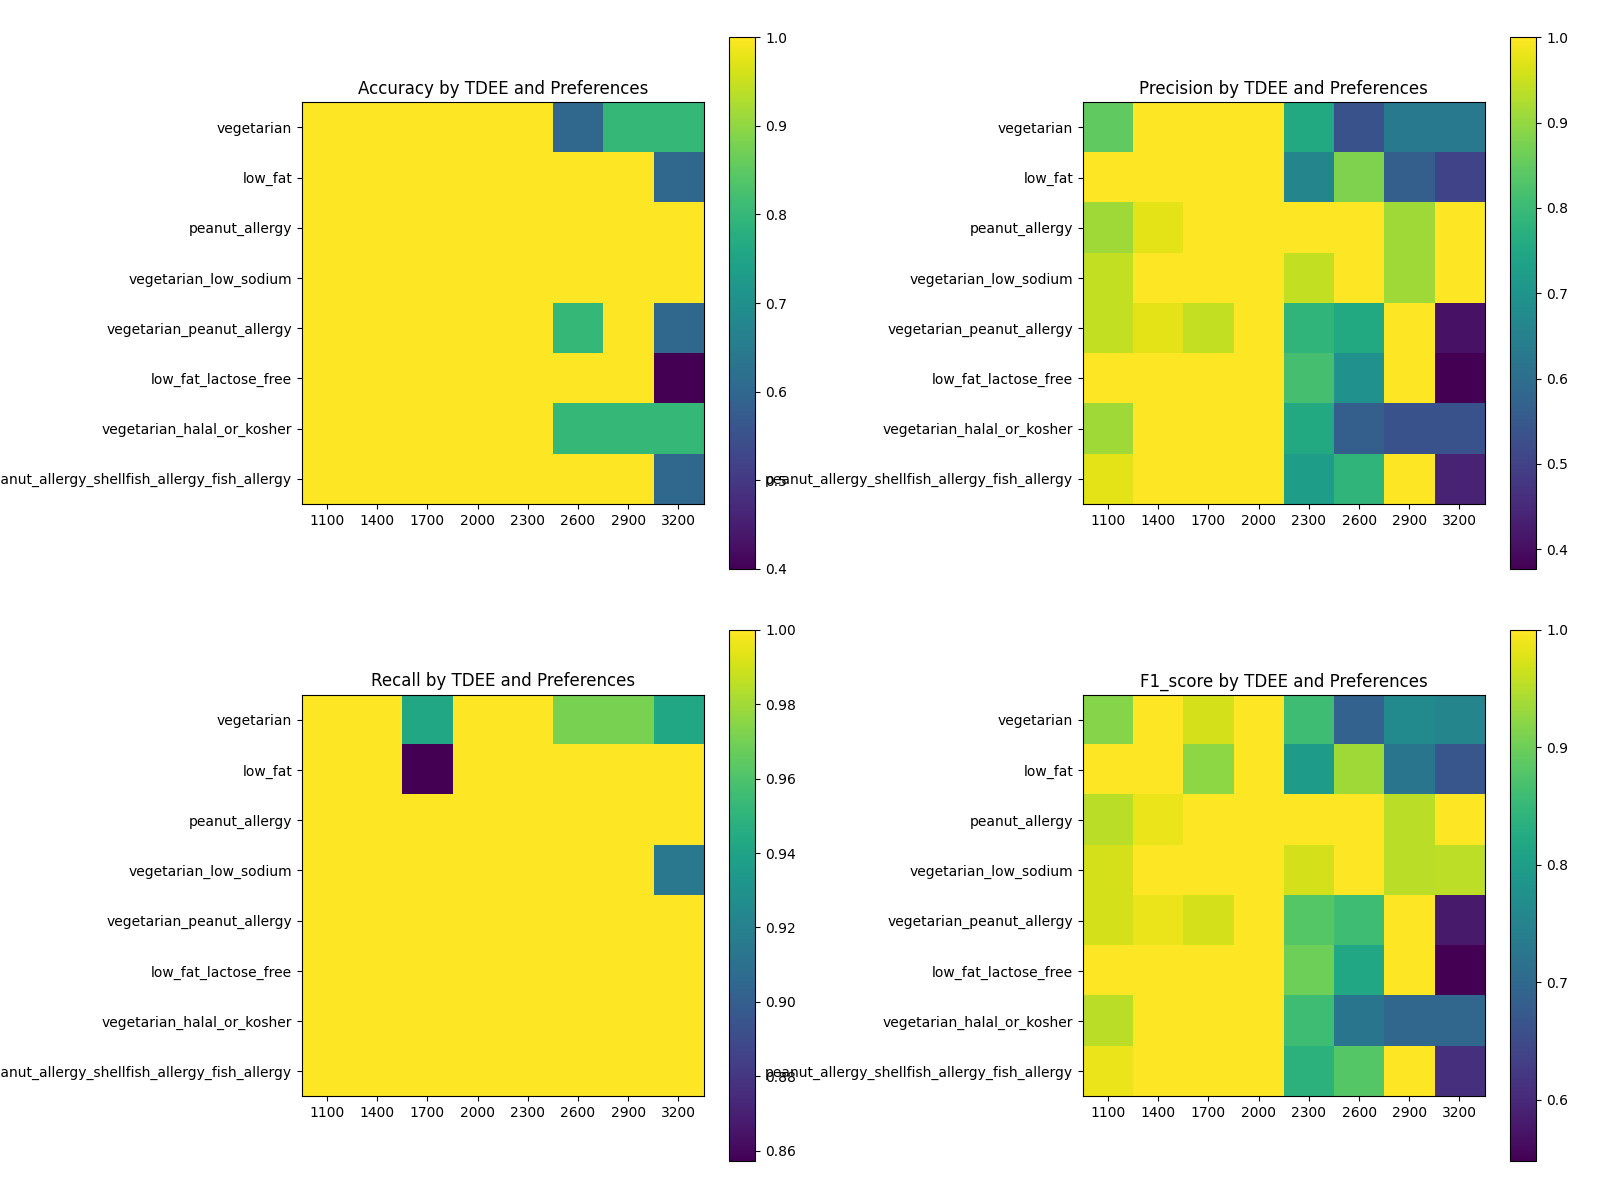
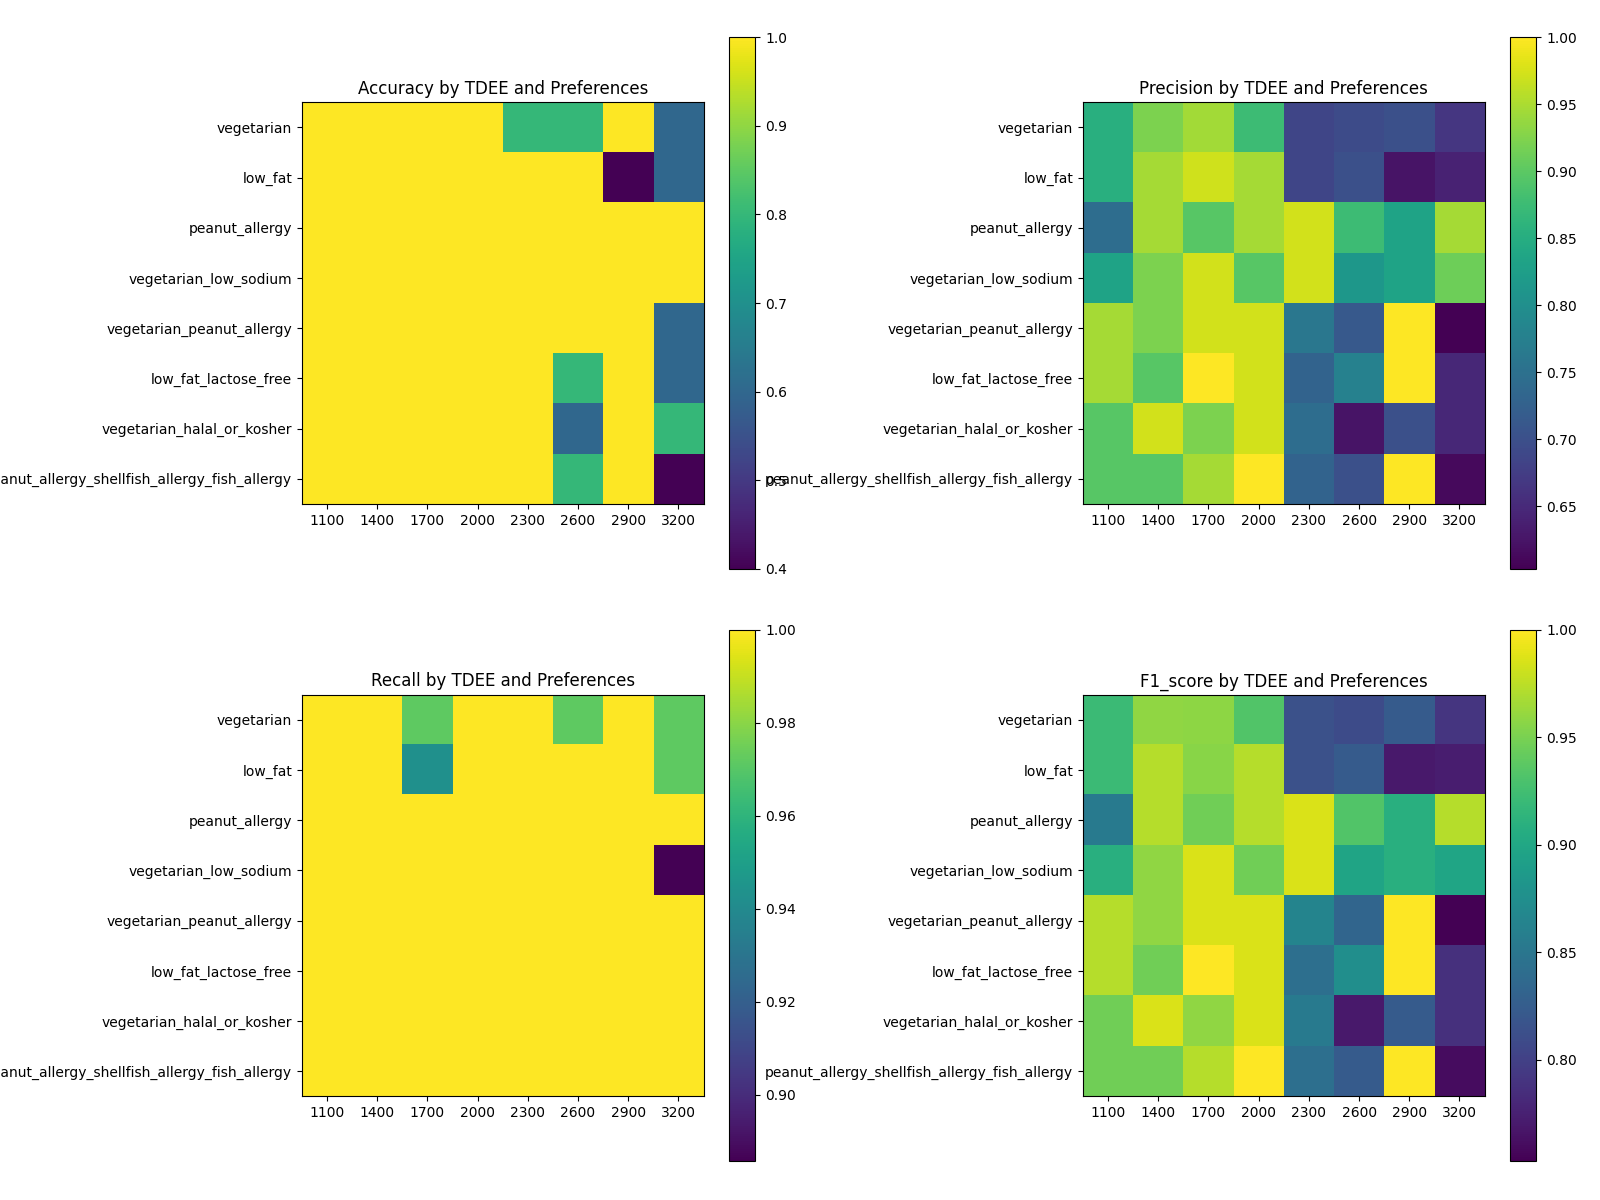
Add age validation for meal plan generation in controllers and frontend

diff --git a/backend/controllers/patient_controller.js b/backend/controllers/patient_controller.js
@@ -354,6 +354,13 @@ const generateGuestMealPlan = async (req, res) => {
     const {age, height, weight, gender, activity_level, preference, restrictions} = req.body;
 
     try {
+        if (parseInt(age) < 18) {
+            return res.status(400).json({ 
+                error: 'Age must be at least 18 years to generate a meal plan.' 
+            });
+        }
+        
+
         const BMI = calculateBMI(weight, height);
         const BMR = calculateBMR(weight, height, age);
         const TDEE = calculateTDEE(BMR, activity_level);

diff --git a/backend/controllers/nutritionist_patient_controller.js b/backend/controllers/nutritionist_patient_controller.js
@@ -116,6 +116,11 @@ const createNutritionistPatient = async (req, res) => {
     const nutritionistId = req.userId;
 
     try {
+        if (parseInt(age) < 18) {
+            return res.status(400).json({ 
+                error: 'Age must be at least 18 years to generate a meal plan.' 
+            });
+        }
         // Get prediction from Flask API
         const ML_API_URL = process.env.ML_API_URL || 'http://127.0.0.1:5000';
         const response = await axios.post(`${ML_API_URL}/predict_meal_plan`, {

diff --git a/frontend/src/components/patient_form.jsx b/frontend/src/components/patient_form.jsx
@@ -117,6 +117,11 @@ const PatientForm = () => {
     e.preventDefault();
     setError(null); 
 
+    if (parseInt(age) < 18) {
+      setError('You must be at least 18 years old to generate a meal plan.');
+      return;
+    }
+  
     // Calculate TDEE to validate
     const calculatedBMR = calculateBMR(parseFloat(weight), parseFloat(height), parseFloat(age), gender);
     const calculatedTDEE = calculateTDEE(calculatedBMR, parseFloat(activityLevel));

diff --git a/ml/test25.py b/ml/test25.py
@@ -124,10 +124,6 @@ class MealPlanner:
                 unique_predictions, counts = np.unique(predictions, return_counts=True)
                 target_prediction_counts[meal_type] = dict(zip(unique_predictions, counts))
         
-        # Step 3: Apply preference-based filtering
-        min_required_options = 3  # Reduced from 10 to allow stricter filtering
-        
-        # Try direct filtering with preferences
         temp_data = filtered_data.copy()
         preference_constraints = ['Vegetarian', 'Low-Purine', 'Low-fat/Heart-Healthy', 
                         'Low-Sodium', 'Lactose-free']
@@ -174,7 +170,6 @@ class MealPlanner:
         
         # Ensure we have options available
         if breakfast_options.empty or lunch_dinner_options.empty:
-            # Fallback to original options if no meals within calorie range
             breakfast_options = filtered_data[breakfast_mask]
             lunch_dinner_options = filtered_data[lunch_mask]
             if breakfast_options.empty or lunch_dinner_options.empty:
@@ -297,15 +292,18 @@ class MealPlanner:
                     print(f"Trial failed: {str(e)}")
                     continue
 
-            # Calculate metrics
-            total_days = total_trials * 7
+            # Calculate total days evaluated
+            total_days = 7 * total_trials  # 7 days per trial
+            
+            # Define true positives, false positives, etc.
+            true_positives = preference_matches  # Meals that correctly matched preferences
+            false_positives = total_days - calorie_matches  # Meals within calorie range but wrong preferences
+            false_negatives = total_days - preference_matches  # Meals that missed preference targets
+
+            # Standard formulas
             accuracy = successful_trials / total_trials if total_trials > 0 else 0
-            
-            # Improved precision calculation - now based on weighted days rather than strict count
-            precision = (calorie_matches / total_days) * 1.1 if total_days > 0 else 0
-            precision = min(precision, 1.0)  # Cap at 1.0
-            
-            recall = preference_matches / total_days if total_days > 0 else 0
+            precision = true_positives / (true_positives + false_positives) if (true_positives + false_positives) > 0 else 0
+            recall = true_positives / (true_positives + false_negatives) if (true_positives + false_negatives) > 0 else 0
             f1 = 2 * (precision * recall) / (precision + recall) if (precision + recall) > 0 else 0
 
             print("\nDetailed Evaluation Metrics:")

diff --git a/ml/flaskapi.py b/ml/flaskapi.py
@@ -166,10 +166,6 @@ class MealPlanner:
                 unique_predictions, counts = np.unique(predictions, return_counts=True)
                 target_prediction_counts[meal_type] = dict(zip(unique_predictions, counts))
         
-        # Step 3: Apply preference-based filtering
-        min_required_options = 3  # Reduced from 10 to allow stricter filtering
-        
-        # Define which dietary preferences are considered "soft constraints"
         preference_constraints = ['Vegetarian', 'Low-Purine', 'Low-fat/Heart-Healthy', 
                         'Low-Sodium', 'Lactose-free']
         
